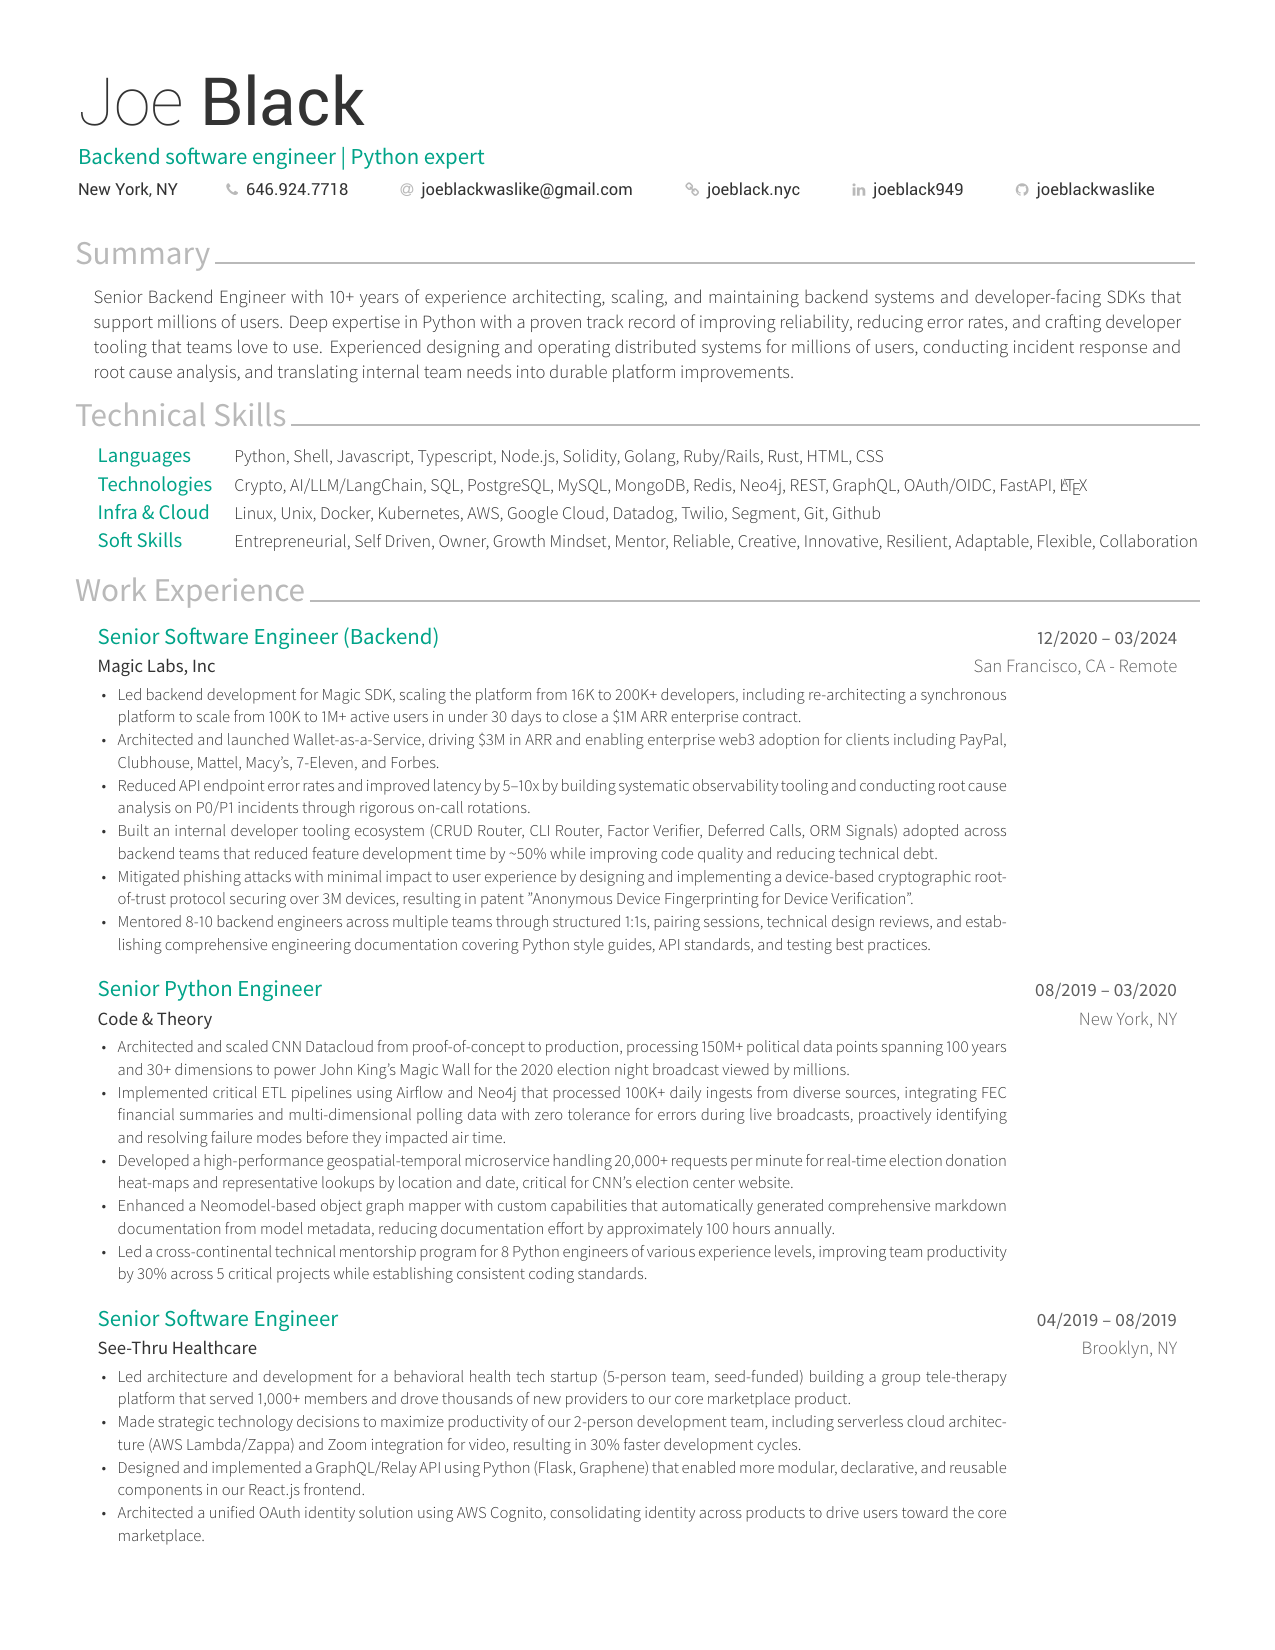
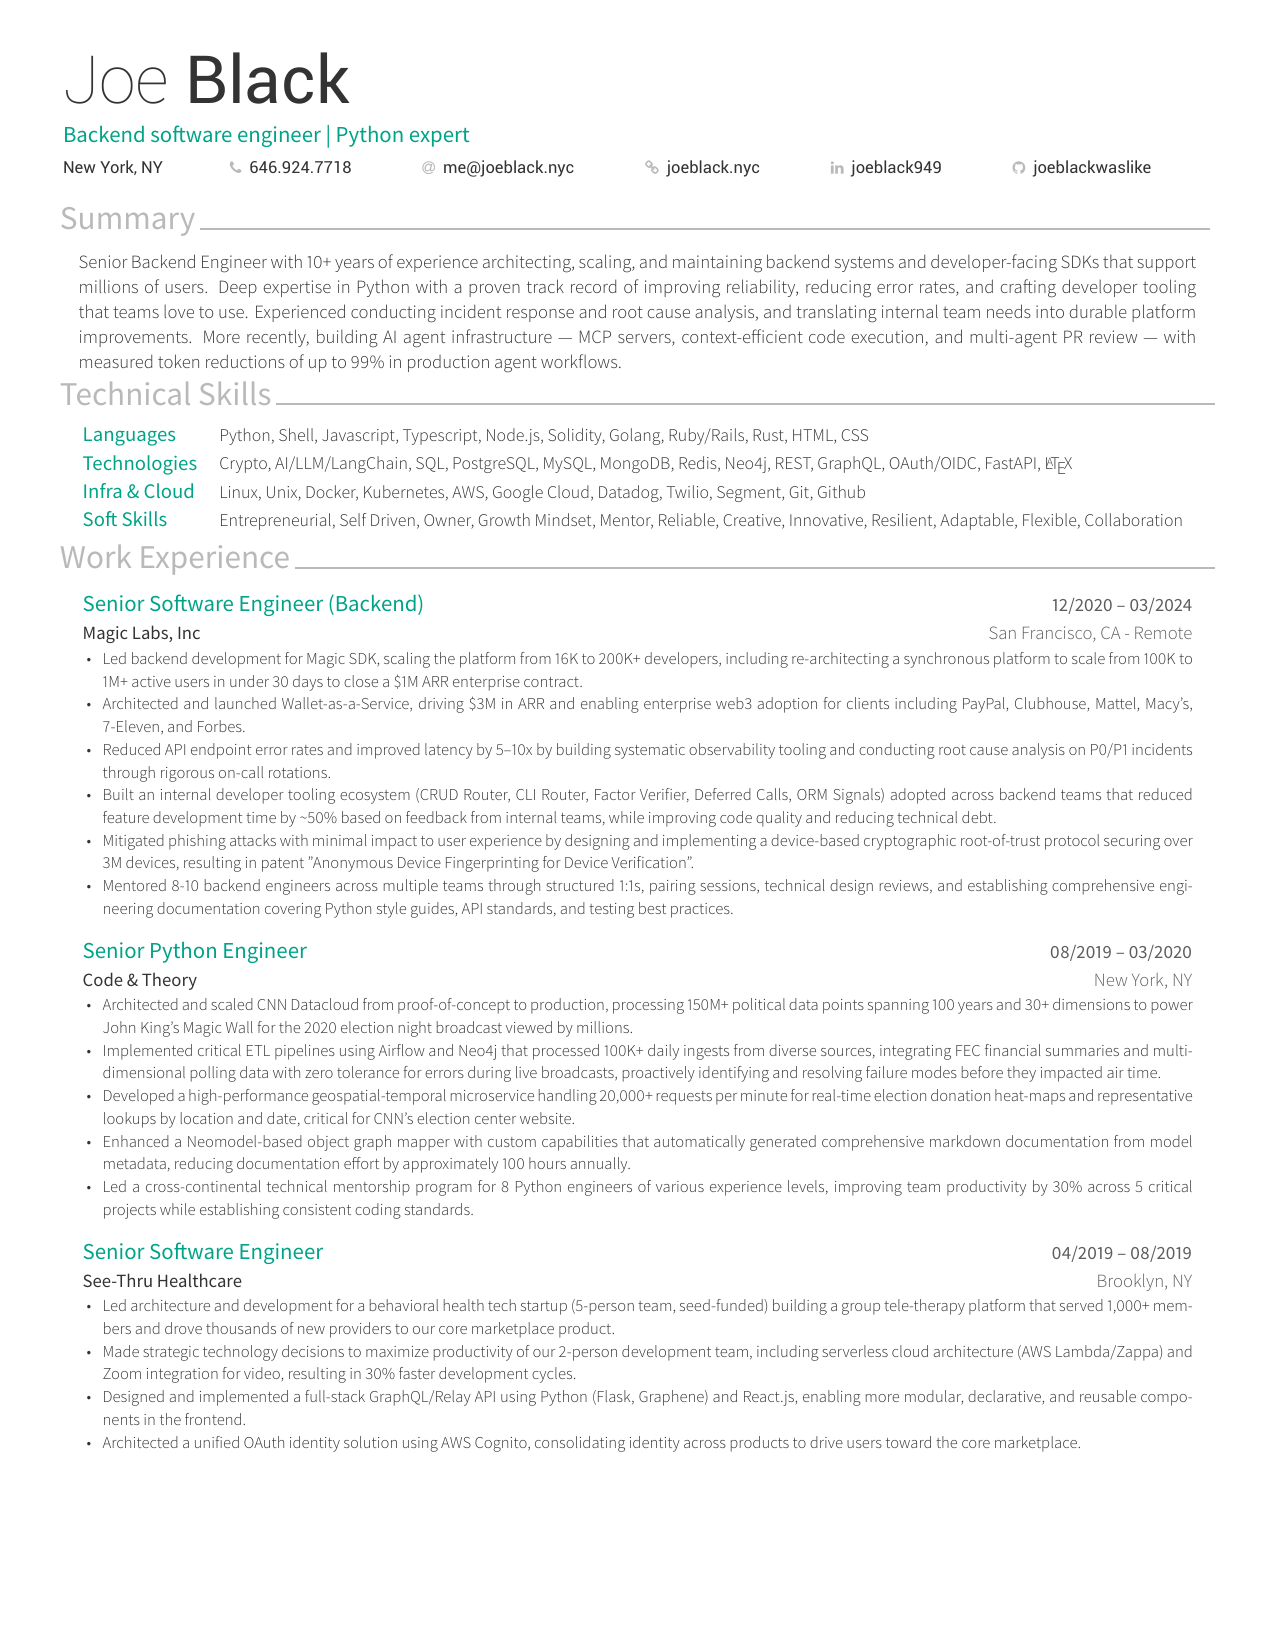
docs: overhaul README usage instructions and refresh preview/ATS example
Usage section was stale: pip install instead of uv sync, wrong CLI
command name (resume-builder instead of builder), incomplete submodule
fetch command, and no mention of --patch/--base/--accent-color or the
available patches list.

Regenerate preview-1.png/preview-2.png and the ATS text example from
the current export/Joe_Black_v4.1.pdf render.

diff --git a/README.md b/README.md
@@ -7,12 +7,27 @@
 This project is a resume builder I developed for building a beautiful LaTeX typset resume from jsonresume conforming yaml data.  This allows for easy iteration and tracking of changes via diffs.  It also allows for the data itself to be used in any context where jsonresume is supported.
 
 ## Usage
-* Ensure you have docker installed and running.
-* install python through pyenv `pyenv install`
-* create a new venv `python venv .venv && source .venv/bin/activate`
-* Install package: `pip install .`
-* Ensure you have jsonresume conforming yaml data in `data/`, to use mine run: `git submodule init`.
-* Build your pdf: `resume-builder render`.
+
+* Ensure you have Docker installed and running, then pull the LaTeX image:
+  `docker pull joeblackwaslike/texlive:2016`
+* Install [uv](https://docs.astral.sh/uv/).
+* Clone with submodules (or run `git submodule update --init --recursive` if already cloned)
+  to get the jsonresume-conforming yaml data in `data/`.
+* Install dependencies: `uv sync`
+* Build your pdf:
+
+  ```sh
+  builder render                              # base resume
+  builder render --patch python               # apply a patch
+  builder render --base base-cs --patch cs     # different base + patch
+  ```
+
+  Available patches: `python`, `cs`, `ct`, `fullstack`, `mercor`, `web3`,
+  `anthropic-research-tools`, `anthropic-sandboxing`
+* Output lands in `export/` as `Joe_Black_v{version}[_{patch}].pdf`.
+
+See [AGENTS.md](AGENTS.md) for the full command reference, project layout, and dev tooling
+(ruff/mypy).
 
 ## Results
 Here are some example's of the results, exported using `pdftoppm`.
@@ -25,94 +40,116 @@ And just because I'm a total nerd, here is an example of the text extracted from
 ```
 Joe Black
 Backend software engineer | Python expert
-New York, NY             (646) 924-7718                 me@joeblack.nyc                  joeblack.nyc               joeblack949                joeblackwaslike
+New York, NY              646.924.7718                me@joeblack.nyc                   joeblack.nyc               joeblack949                joeblackwaslike
 
 
 
 Summary
- Innovative Senior Software Engineer with 10+ years experience designing and scaling backend systems, and leading cross-functional teams. Known
- for a gritty approach, combining passion and perseverance in delivering high-performance API architectures, cloud-native solutions, and crypto-
- graphic security protocols, driving innovation. Thrive in fast-paced environments; self-motivated with a growth mindset. Expertise in Python, AWS,
- Docker, Kubernetes, and blockchain technologies. Inquisitive, seeking creative solutions; possess a willingness to learn and to mentor others.
-
-Skills
-  Programming Languages              Python, Shell, Javascript, Solidity, Golang, Rust
-  Technologies                       Cryptography, Blockchain, LLMs/LangChain, SQL and NoSQL, Redis, Neo4j, REST, GraphQL, gRPC, OAuth/OIDC
-  Infrastructure & Cloud             Linux, Unix, Docker, Kubernetes, AWS, Google Cloud, Datadog, Twilio, Segment, Git, Github
-
+ Senior Backend Engineer with 10+ years of experience architecting, scaling, and maintaining backend systems and developer-facing SDKs that support
+ millions of users. Deep expertise in Python with a proven track record of improving reliability, reducing error rates, and crafting developer tooling
+ that teams love to use. Experienced conducting incident response and root cause analysis, and translating internal team needs into durable platform
+ improvements. More recently, building AI agent infrastructure — MCP servers, context-efficient code execution, and multi-agent PR review — with
+ measured token reductions of up to 99% in production agent workflows.
+Technical Skills
+  Languages          Python, Shell, Javascript, Typescript, Node.js, Solidity, Golang, Ruby/Rails, Rust, HTML, CSS
+  Technologies       Crypto, AI/LLM/LangChain, SQL, PostgreSQL, MySQL, MongoDB, Redis, Neo4j, REST, GraphQL, OAuth/OIDC, FastAPI, LATEX
+  Infra & Cloud      Linux, Unix, Docker, Kubernetes, AWS, Google Cloud, Datadog, Twilio, Segment, Git, Github
+  Soft Skills        Entrepreneurial, Self Driven, Owner, Growth Mindset, Mentor, Reliable, Creative, Innovative, Resilient, Adaptable, Flexible, Collaboration
 
 Work Experience
-  Senior Software Engineer (Backend)                                                                                                            2020-12 – 2024-03
-  Magic Labs, Inc                                                                                                                     San Francisco, CA - Remote
-  • Led backend services and API development for Magic SDK, scaling platform to 1M+ monthly users and reducing latency by 50%; Opti-
-    mized API performance, achieving 5-10x speed improvements and reducing infrastructure costs by 25%
-  • Developed key developer tooling (Crud Router, Factor Verifier, Deferred Calls), cutting response times by 70%, feature timelines by 50%,
-    and technical debt; architected Wallet-as-a-Service.
-  • Led enterprise web3 adoption with clients like Paypal, 7Eleven, and Forbes, adding $3M in annual recurring revenue.
-  • Mitigated phishing attacks using cryptographic root-of-trust protocol, securing 3M+ devices (pending patent for ”Anonymous Device
-    Fingerprinting”).
-  • Mentored 8-10 engineers, enhancing skills through 1:1s, technical reviews, and formal engineering documentation.
+  Senior Software Engineer (Backend)                                                                                                             12/2020 – 03/2024
+  Magic Labs, Inc                                                                                                                      San Francisco, CA - Remote
+  • Led backend development for Magic SDK, scaling the platform from 16K to 200K+ developers, including re-architecting a synchronous platform to scale from 100K to
+    1M+ active users in under 30 days to close a $1M ARR enterprise contract.
+  • Architected and launched Wallet-as-a-Service, driving $3M in ARR and enabling enterprise web3 adoption for clients including PayPal, Clubhouse, Mattel, Macy's,
+    7-Eleven, and Forbes.
+  • Reduced API endpoint error rates and improved latency by 5–10x by building systematic observability tooling and conducting root cause analysis on P0/P1 incidents
+    through rigorous on-call rotations.
+  • Built an internal developer tooling ecosystem (CRUD Router, CLI Router, Factor Verifier, Deferred Calls, ORM Signals) adopted across backend teams that reduced
+    feature development time by ~50% based on feedback from internal teams, while improving code quality and reducing technical debt.
+  • Mitigated phishing attacks with minimal impact to user experience by designing and implementing a device-based cryptographic root-of-trust protocol securing over
+    3M devices, resulting in patent "Anonymous Device Fingerprinting for Device Verification".
+  • Mentored 8-10 backend engineers across multiple teams through structured 1:1s, pairing sessions, technical design reviews, and establishing comprehensive engi-
+    neering documentation covering Python style guides, API standards, and testing best practices.
 
-  Senior Python Engineer                                                                                                                        2019-08 – 2020-03
-  Code & Theory                                                                                                                                      New York, NY
-  • Architected the CNN Datacloud to process 150M+ real-time political data points over 100 years and 30+ dimensions, powering the data
-    visualizations on John King’s Magic Wall for election night 2020 designed to scale for millions of viewers.
-  • Managed Quality Assurance (QA) to Zero tolerance for incorrect data, bugs, or latency for live broadcasts.
-  • Built ETL pipelines in Airflow, projected to process 100K+ daily ingests from diverse electoral and financial datasets.
-  • Developed a geospatial-temporal microservice expected to process 20,000+ requests per minute to optimize real-time election dona-
-    tion analysis and government representative lookups for high-volume traffic.
-  • Led a tech-leadership initiative to mentor 8 Python engineers, projected to improve team productivity by 30% and code quality on 5
-    critical projects.
-  • Customized a Neomodel-based ORM to generate dynamic markdown documentation, expected to reduce manual effort by 50% or 100+
-    hours annually.
+  Senior Python Engineer                                                                                                                        08/2019 – 03/2020
+  Code & Theory                                                                                                                                        New York, NY
+  • Architected and scaled CNN Datacloud from proof-of-concept to production, processing 150M+ political data points spanning 100 years and 30+ dimensions to power
+    John King's Magic Wall for the 2020 election night broadcast viewed by millions.
+  • Implemented critical ETL pipelines using Airflow and Neo4j that processed 100K+ daily ingests from diverse sources, integrating FEC financial summaries and multi-
+    dimensional polling data with zero tolerance for errors during live broadcasts, proactively identifying and resolving failure modes before they impacted air time.
+  • Developed a high-performance geospatial-temporal microservice handling 20,000+ requests per minute for real-time election donation heat-maps and representative
+    lookups by location and date, critical for CNN's election center website.
+  • Enhanced a Neomodel-based object graph mapper with custom capabilities that automatically generated comprehensive markdown documentation from model
+    metadata, reducing documentation effort by approximately 100 hours annually.
+  • Led a cross-continental technical mentorship program for 8 Python engineers of various experience levels, improving team productivity by 30% across 5 critical
+    projects while establishing consistent coding standards.
 
-  Senior Software Engineer                                                                                                                      2019-04 – 2019-08
-  See-Thru Healthcare                                                                                                                                 Brooklyn, NY
-  • Led the architecture and development of a group tele-therapy platform, serving over 1,000 members, using serverless cloud infrastruc-
-    ture with GraphQL + Relay API on AWS Lambda and React.js.
-  • Streamlined development and flexible problem solving for a small team, increasing productivity by 30%, through serverless architecture
-    cloud-first solutions.
-  • Developed a unified OAuth identity provider, onboarding over 1,000 users, helping scale the telemedicine marketplace and driving its
-    growth.
+  Senior Software Engineer                                                                                                                       04/2019 – 08/2019
+  See-Thru Healthcare                                                                                                                                  Brooklyn, NY
+  • Led architecture and development for a behavioral health tech startup (5-person team, seed-funded) building a group tele-therapy platform that served 1,000+ mem-
+    bers and drove thousands of new providers to our core marketplace product.
+  • Made strategic technology decisions to maximize productivity of our 2-person development team, including serverless cloud architecture (AWS Lambda/Zappa) and
+    Zoom integration for video, resulting in 30% faster development cycles.
+  • Designed and implemented a full-stack GraphQL/Relay API using Python (Flask, Graphene) and React.js, enabling more modular, declarative, and reusable compo-
+    nents in the frontend.
+  • Architected a unified OAuth identity solution using AWS Cognito, consolidating identity across products to drive users toward the core marketplace.
+ Co-founder & Senior Software Engineer                                                                                                            06/2017 – 12/2018
+ Telephone                                                                                                                                              New York, NY
+ • Co-founded a pre-ICO blockchain startup and led architecture of a decentralized communications protocol on Ethereum, comparable to Signal but with enhanced
+   privacy features.
+ • Architected and implemented a secure messaging system using Solidity, Python, and JavaScript that leveraged Postal Service over Swarm (PSS) dark-routing capa-
+   bilities to prevent traffic analysis and protect user identity for 10,000+ potential users.
+ • Designed smart contracts for message integrity verification and secure multi-node media relaying, ensuring IP address protection and enabling offline message re-
+   trieval without compromising security.
+ • Designed a decentralized services marketplace with a token economy to incentivize developer contributions, driving community growth and platform adoption while
+   maintaining core privacy principles.
 
-  Co-founder & Senior Software Engineer                                                                                                          2017-06 – 2018-12
-  Telephone                                                                                                                                          New York, NY
-  • Co-founded a pre-ICO startup; developed a decentralized communications app similar to Signal on the Ethereum blockchain.
-  • Secured private communications for an expected 10,000+ users through API architecture for scalability and privacy, dark-routing and
-    smart contracts to prevent passive traffic analysis and ensure message integrity.
-  • Designed a decentralized services marketplace, projected to onboard 100+ services, incentivizing development and supporting a token
-    economy to handle secure media relays and offline message retrieval for 1,000+ anticipated daily users.
-Open Source Projects
- BTCPay-python                                                                                                   https://github.com/btcpayserver/btcpay-python
- The official python client for the BTCPay Server API, an open-source payment processor for bitcoin and litecoin.
- python, cryptocurrency, bitcoin, RESTful APIs, BTCPay
+Open Source Projects
+ mcp-exec                                                                                                               https://github.com/joeblackwaslike/mcp-exec
+ MCP server enabling sandboxed code execution for AI agents, keeping intermediate tool results out of the context window. Reduced token usage by up to 99.8%
+ (52K to 50 tokens) on multi-tool workflows across Claude Code, Cursor, and other MCP-compatible agents.
+ typescript, mcp, agent-infrastructure, sandboxing, node.js
 
- coinaddr                                                                                                           https://github.com/joeblackwaslike/coinaddr
- Cryptocurrency address inspection/validation library for python
- blockchain, python, validation, cryptocurrency
+ idiomatic                                                                                                              https://github.com/joeblackwaslike/idiomatic
+ Language-abstracted idiom enforcement framework for AI coding agents and humans, built in Rust with Python and Node.js bindings. Sub-100ms autofix gate
+ backed by ast-grep, eliminating repetitive code review feedback.
+ rust, ast-grep, pyo3, napi, developer-tools
 
- Pricing                                                                                                              https://github.com/joeblackwaslike/pricing
- A python package for aggregating, converting, and formatting of prices in a variety of currencies, including crypto and custom.
- python, pricing, money, localization, currency, cryptocurrency, currency exchange
+ ai-review-bot                                                                                                      https://github.com/joeblackwaslike/ai-review-bot
+ Autonomous multi-agent PR reviewer deployed on Vercel, orchestrating five specialized review agents (bugs, error handling, test coverage, security, quality)
+ across both Claude and OpenAI models with automatic deduplication and model-tier routing.
+ typescript, vercel, multi-agent, code-review, github-apps
 
- TmplD                                                                                                                 https://github.com/joeblackwaslike/tmpld
- Advanced configuration templating in jinja2 using cluster state for self-configuring, containerized, microservice architectures.
- python, containers, docker, kubernetes, jinja2, configuration, microservices
+ lessons-learned                                                                                                  https://github.com/joeblackwaslike/lessons-learned
+ Claude Code plugin providing persistent memory of failure patterns across AI agent sessions. Captures mistakes via structured tags and heuristic scanning, then
+ injects preventive warnings before matching tool calls. Curated to 136 active lessons validated by 87 eval test scenarios, backed by 297 automated tests.
+ typescript, claude-code, plugin, developer-tools, agent-memory, eval-testing
+
+ spinup-py / spinup-ts                                                                                                 https://github.com/joeblackwaslike/spinup-py
+ Paired project-scaffolding CLIs with an identical CLI schema for Python and TypeScript. spinup-py standardizes on uv, ruff, mypy, and pytest; spinup-ts on pnpm,
+ Biome, strict ESLint, and Vitest. Both support library/CLI/server/MCP-server project types with GitHub Actions CI and optional Docker/devcontainer setup.
+ spinup-py evolved from cookiecutter-uv.
+ python, typescript, uv, ruff, pnpm, biome, project-scaffolding, mcp
 
 
+Publications
+ I Thought I'd Lost the Plot. I Was Writing It.                                                                                           joeblack.nyc • 08/2026
+ https://example.com
+ Essay on the operational scaffolding required for reliable autonomous coding agents — adversarial design review, agent-native issue tracking, tiered verification,
+ and a memory system that recursively indexed itself into 8,500+ sessions in two days.
 
 Community Engagement
- Mentor                                                                                                                                            2013 – 2015
- Noisebridge Hackerspace                                                                                                                    San Francisco, CA
- • Mentored across a variety of engineering related projects, tools, and tasks.
+ Mentor                                                                                                                                                  2013 – 2015
+ Noisebridge Hackerspace                                                                                                                           San Francisco, CA
+ • Mentored hackers and students from local universities and code bootcamps with various engineering related projects and tasks.
 
- Speaker                                                                                                                                                  2014
- HackMiami Conference                                                                                                                                Miami, FL
- • Delivered a bio-hacking talk with the Co-founder about the usage of various technologies.
-
+ Speaker                                                                                                                                                         2014
+ HackMiami Conference                                                                                                                                       Miami, FL
+ • Delivered a bio-hacking talk discussing the usage of various technologies, proteins, and growth factors for cognitive enhancement with the co-founder of Hack Miami.
 
 
 Awards
- Winner                 Stanford Datajam, a hackathon sponsored by the US Department of Education. (2014-01)                                     Palo Alto, CA
-
+ Winner                  Stanford Datajam, a hackathon sponsored by the US Department of Education. (2014)                                              Palo Alto, CA
+
 ```
